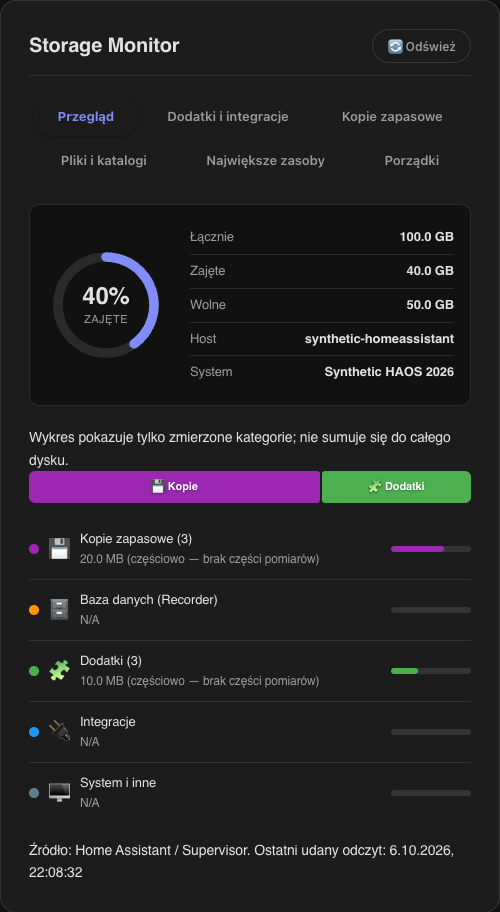
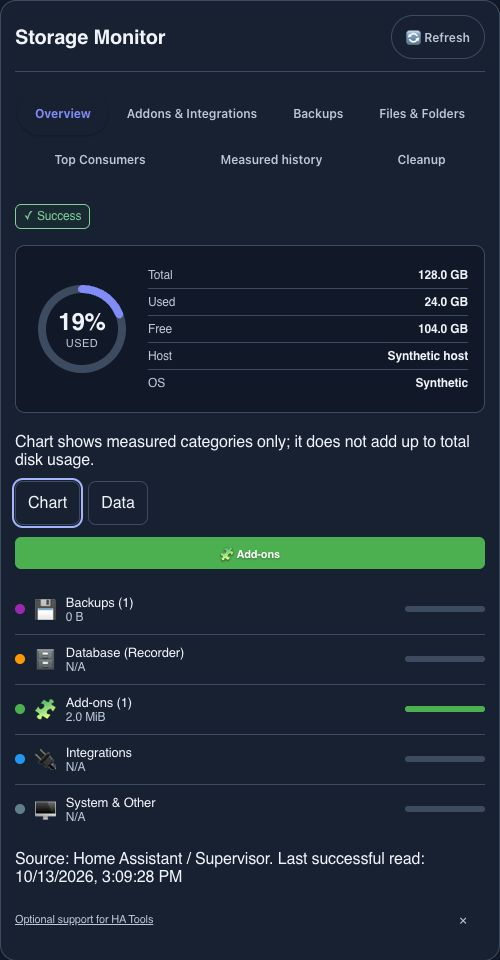
Document the qualified Storage 4.2.0 interface and recorded history

diff --git a/README.md b/README.md
@@ -48,12 +48,14 @@ has the Supervisor.** The card needs no configuration:
 |---|---|
 | ![Overview, light theme](docs/screenshots/card-main-light.png) | ![Overview, dark theme](docs/screenshots/card-main-dark.png) |
 
-*The installed card in Home Assistant, with the Polish interface and
-synthetic test data (not real measurements). The Overview tab: gauge and measured category
-breakdown. Unknown categories remain N/A instead of being treated as zero.
-Dark mode follows your Home Assistant theme. Six more tabs —
-Add-ons & Integrations, Backups, Files & Folders, Top Consumers, Measured history and Cleanup —
-are available from the tab bar.*
+| Recorded history, light | Recorded history, dark |
+|---|---|
+| ![Measured history, light theme](docs/screenshots/card-history-light.png) | ![Measured history, dark theme](docs/screenshots/card-history-dark.png) |
+
+*Version 4.2.0 rendered in Chrome with synthetic Supervisor and Recorder data.
+The history example includes a missing measurement, a measured zero, a capacity
+change and distinct GB/GiB units. Unknown categories remain N/A. Dark mode follows
+your Home Assistant theme. All seven tabs remain available on narrow cards.*
 
 ## Installation
 
